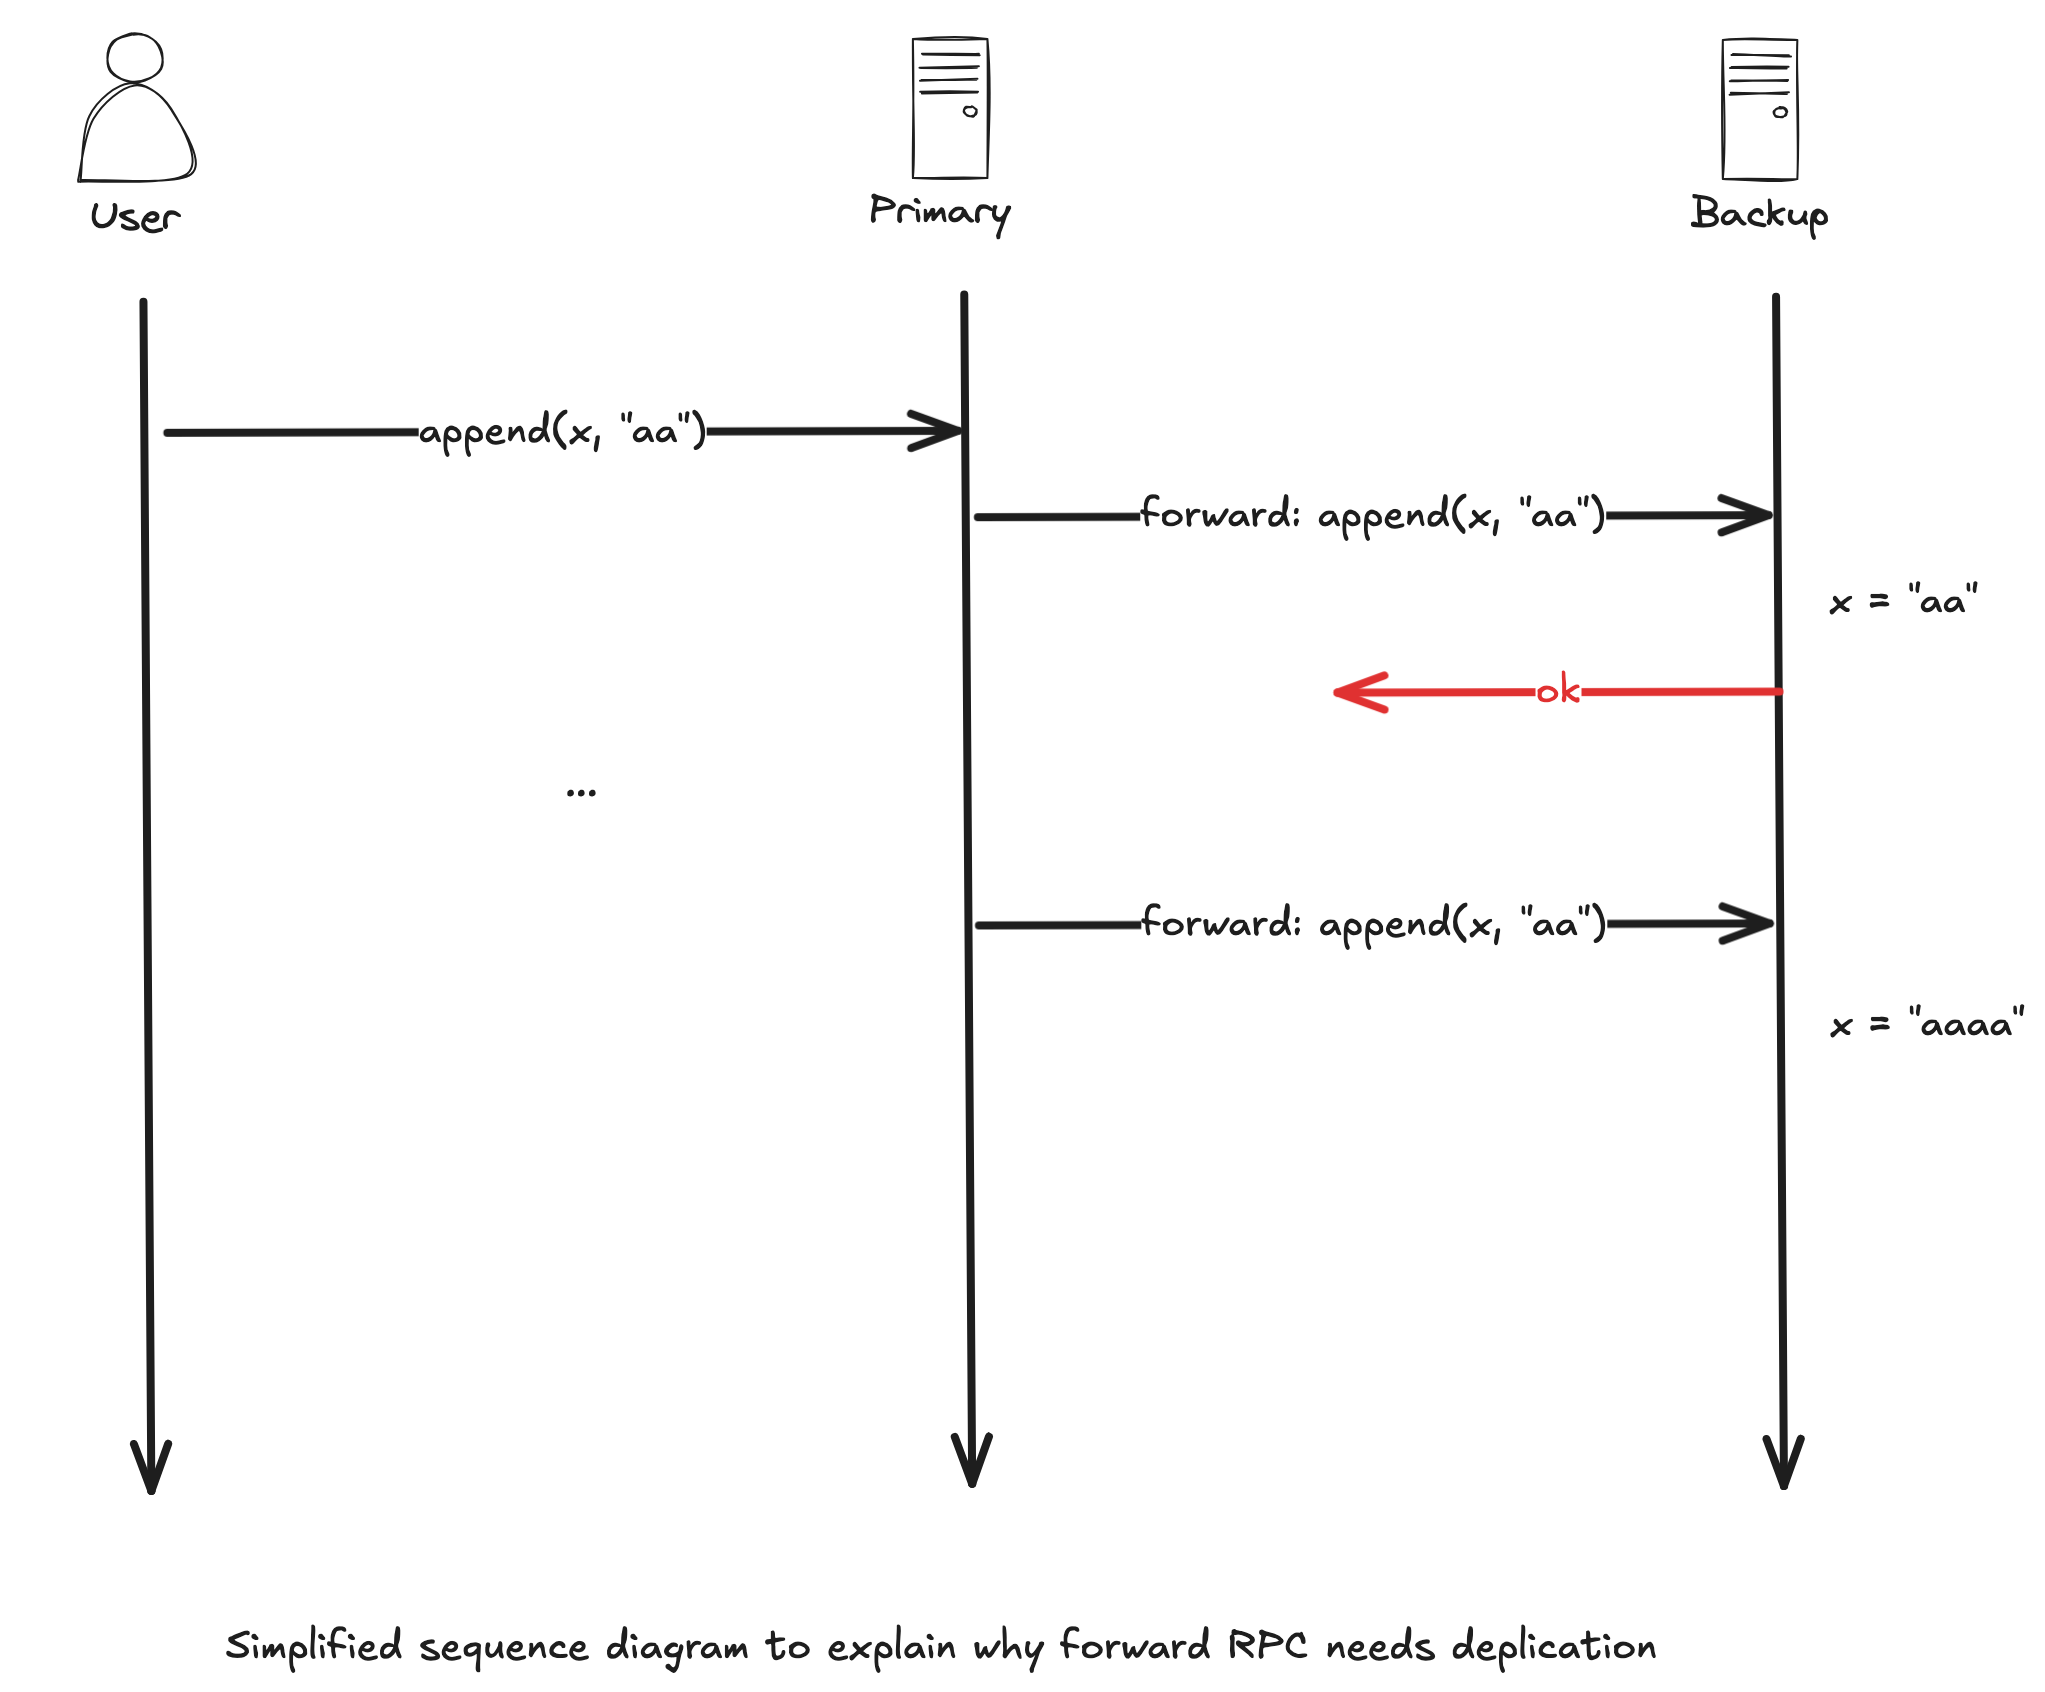
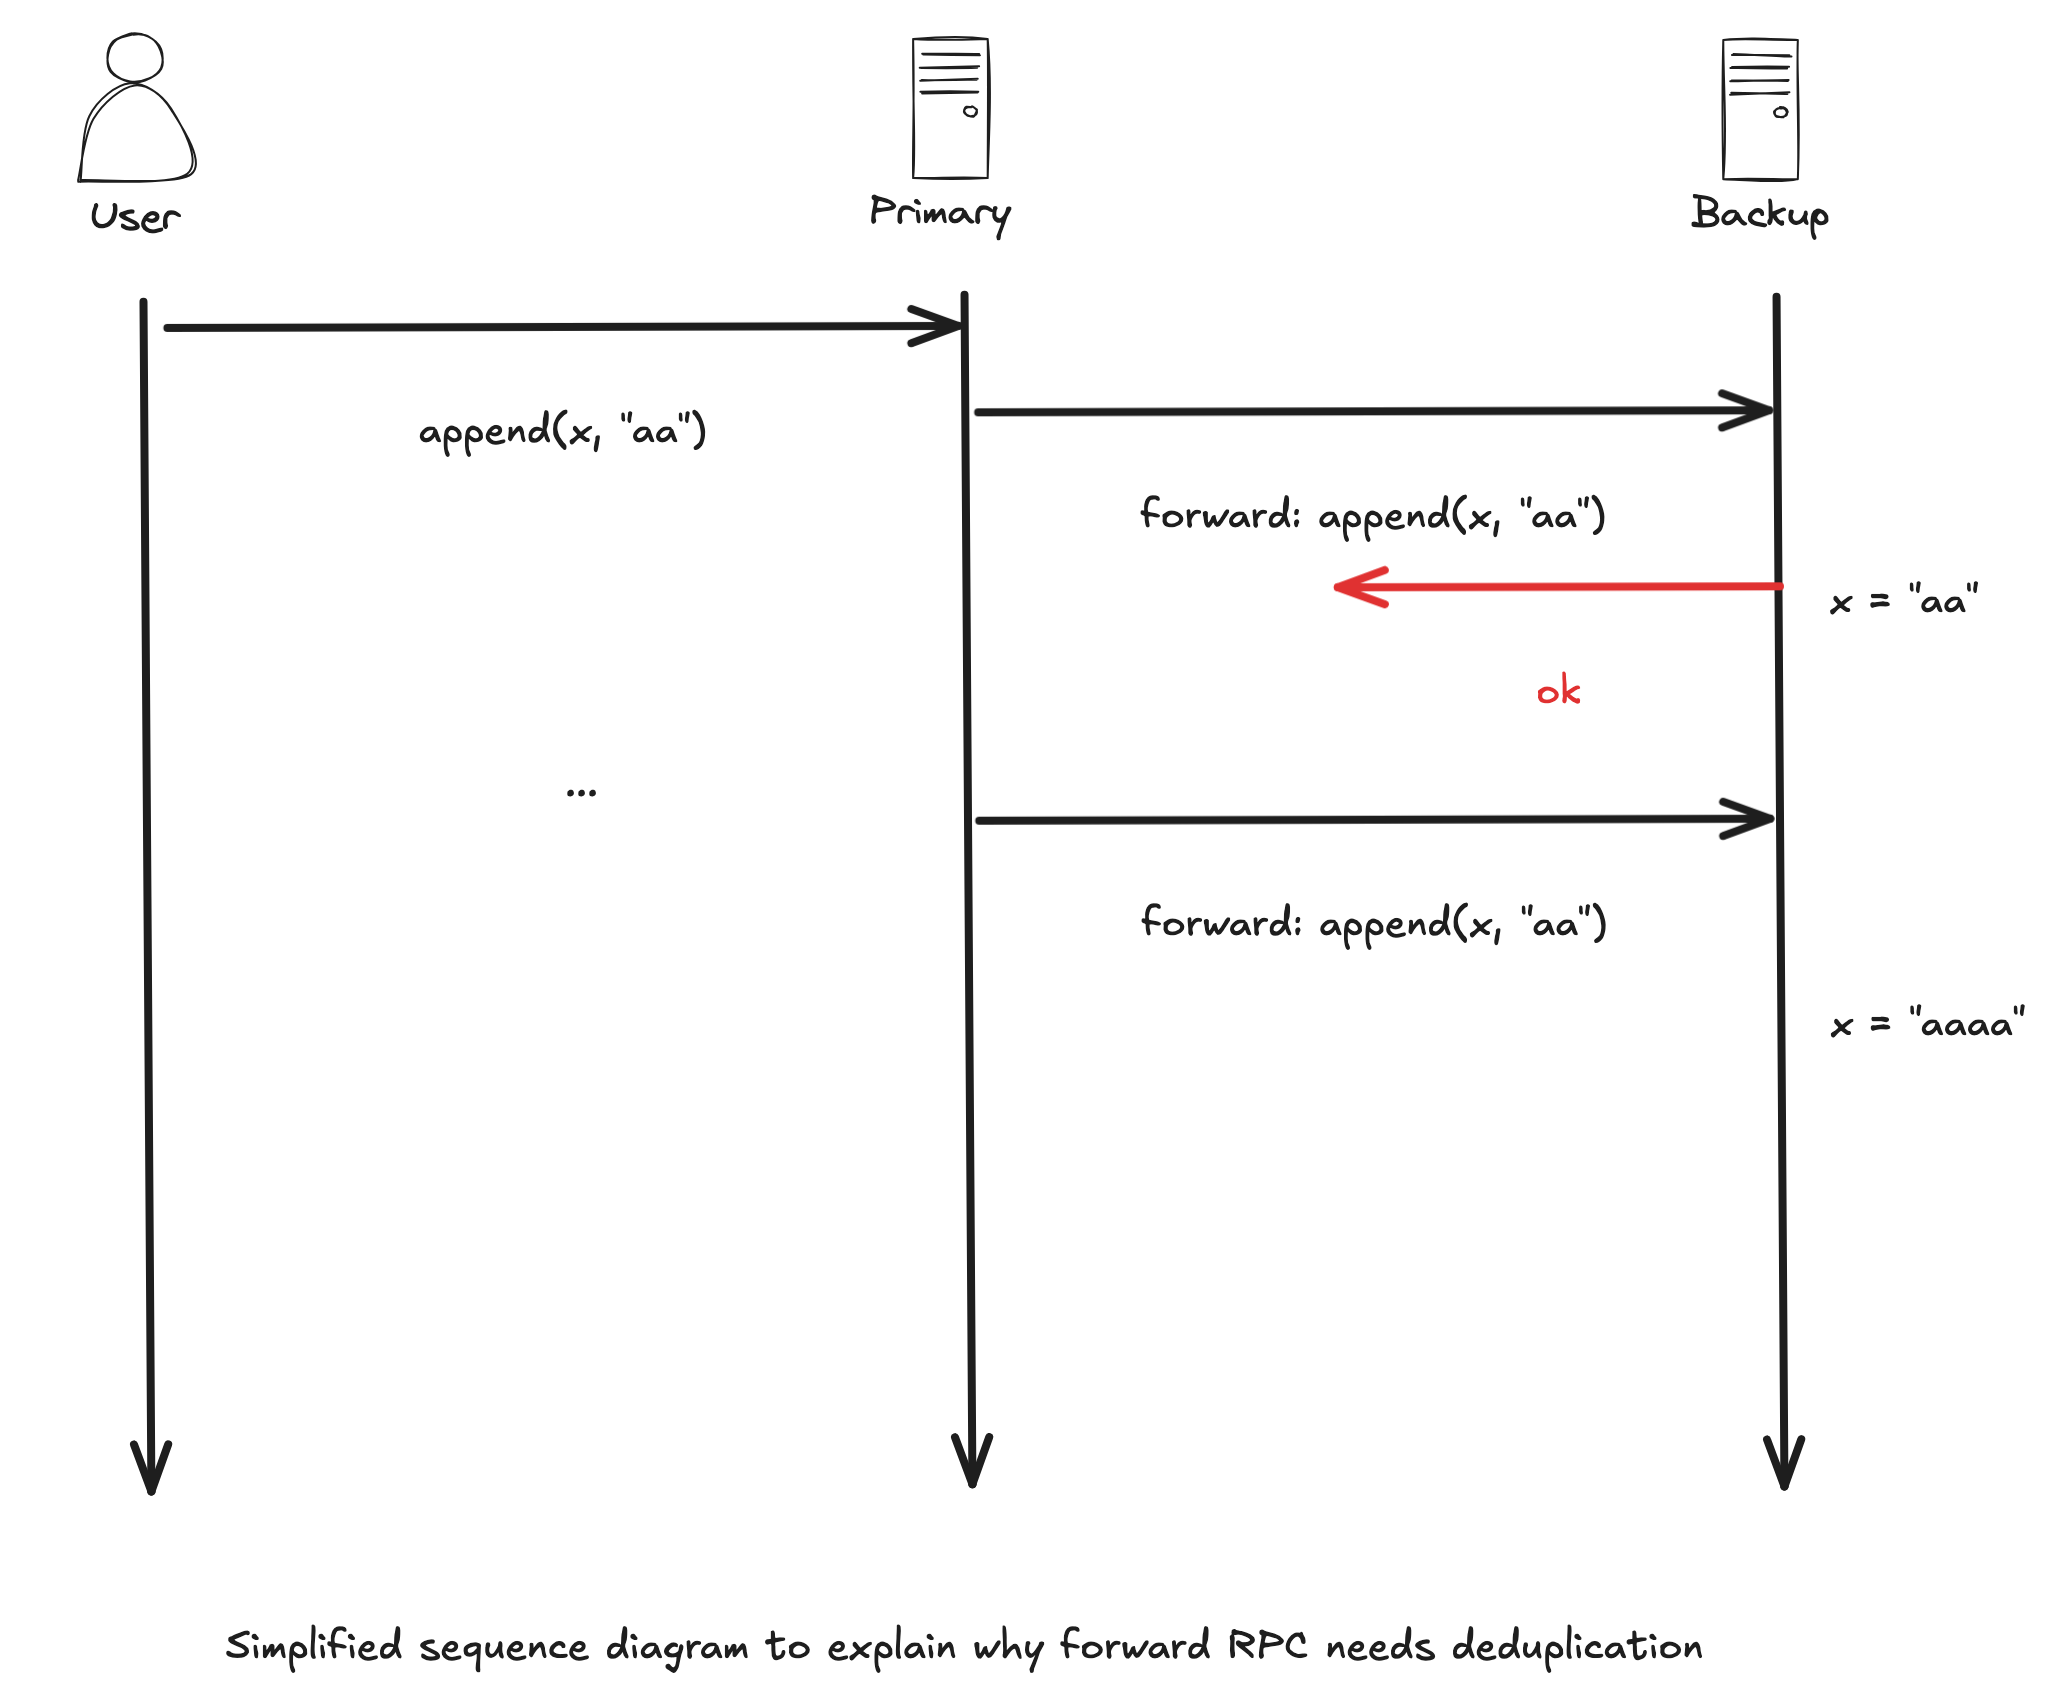
update md

diff --git a/2015/src/primary-backup.md b/2015/src/primary-backup.md
@@ -42,3 +42,7 @@ The primary must send Gets as well as Puts to the backup (if there is one), and 
 ## Details
 
 http://nil.csail.mit.edu/6.824/2015/labs/lab-2.html
+
+## Test Results
+
+
